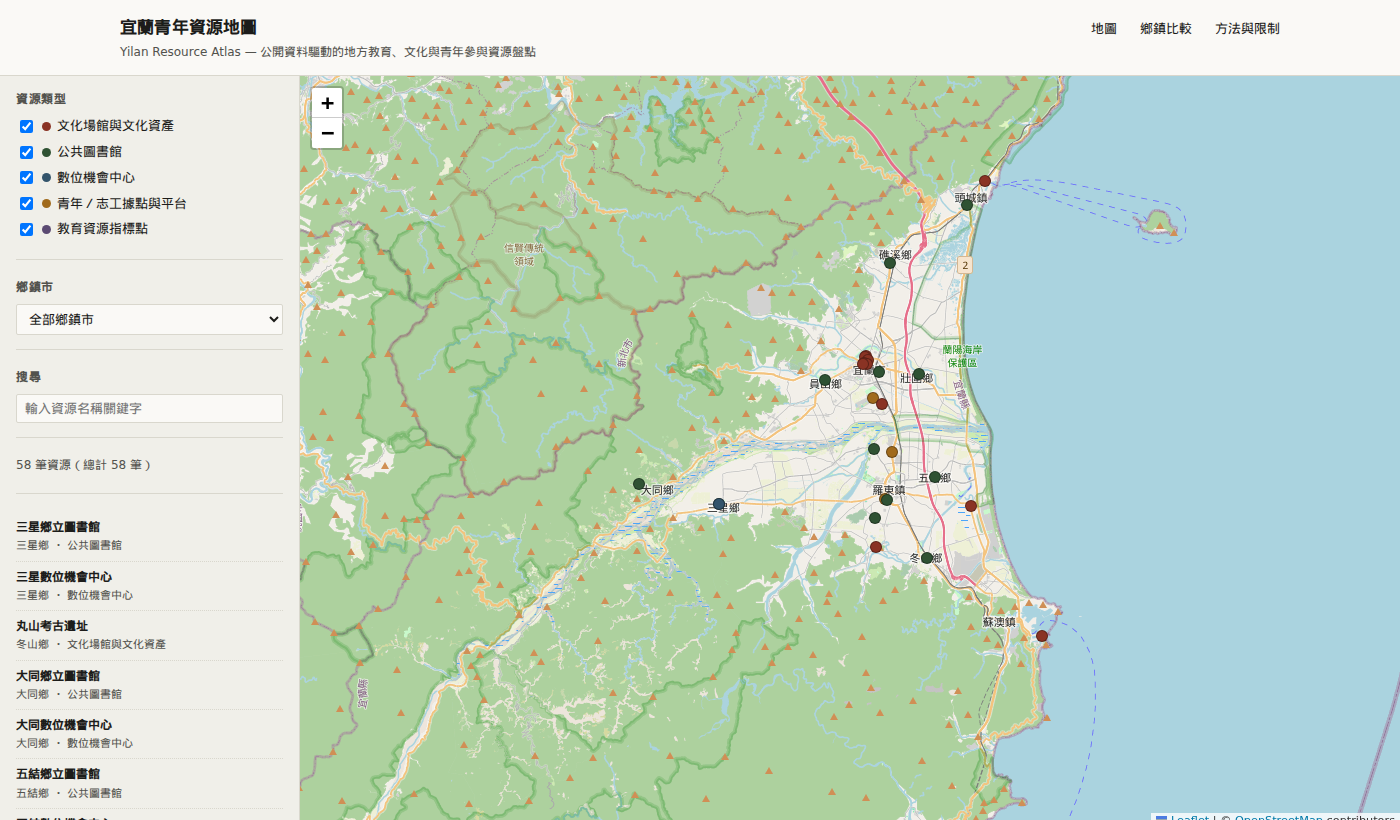
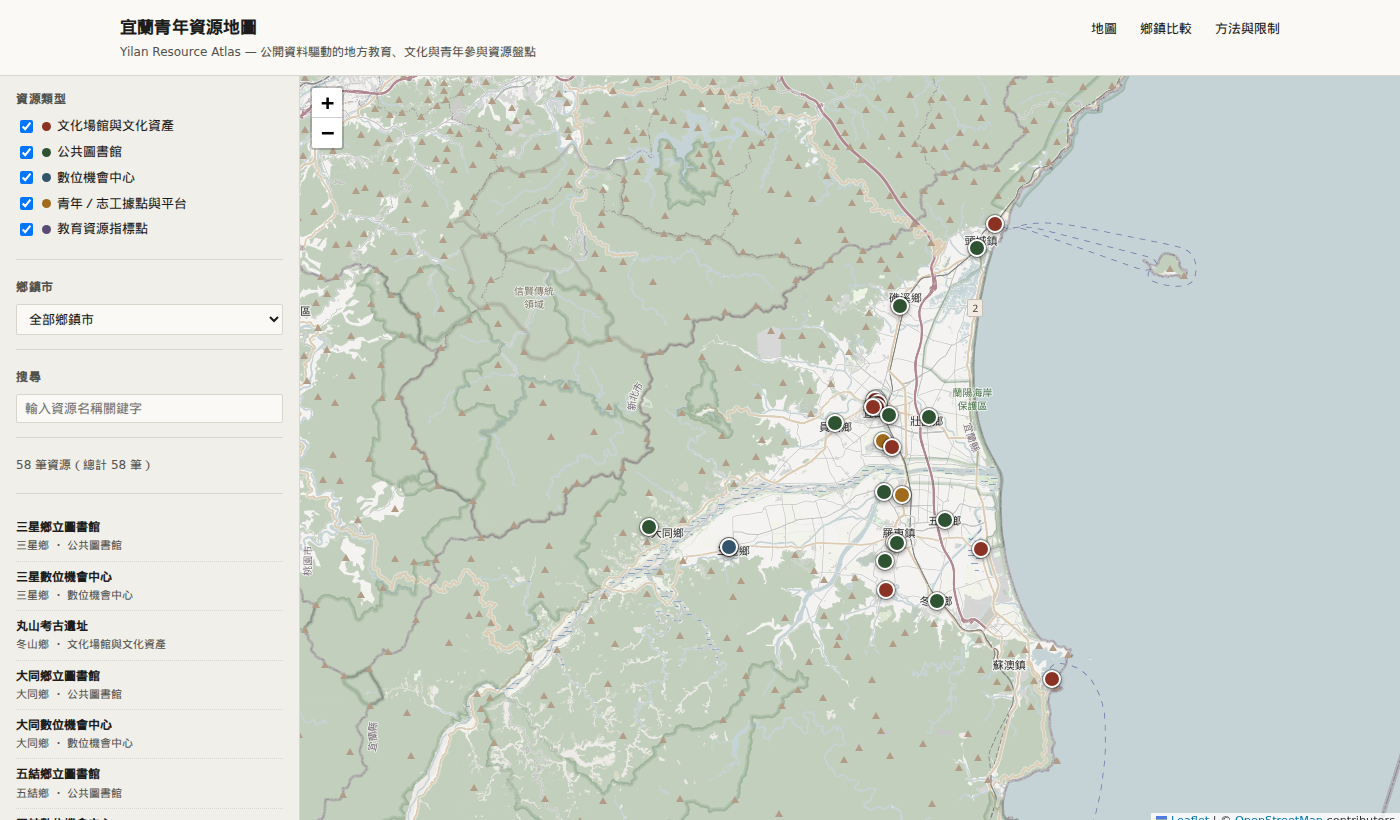
地圖據點改大並加外框，底圖淡化

diff --git a/js/app.js b/js/app.js
@@ -52,11 +52,37 @@ const markerLayer = L.layerGroup().addTo(map);
 function makeIcon(category) {
   const color = CATEGORY_COLOR[category] || "#555";
   return L.divIcon({
-    className: "",
-    html: `<span style="display:inline-block;width:12px;height:12px;border-radius:50%;background:${color};border:1px solid rgba(0,0,0,0.35);"></span>`,
-    iconSize: [12, 12],
-    iconAnchor: [6, 6]
+    className: "mk-wrap",
+    html: `<span class="mk" style="background:${color}"></span>`,
+    iconSize: [18, 18],
+    iconAnchor: [9, 9],
+    popupAnchor: [0, -10]
   });
+}
+
+let selectedMarker = null;
+
+function highlightMarker(marker) {
+  if (selectedMarker && selectedMarker !== marker) {
+    selectedMarker.getElement()?.classList.remove("mk-selected");
+    selectedMarker.setZIndexOffset(0);
+  }
+  marker.getElement()?.classList.add("mk-selected");
+  marker.setZIndexOffset(1000);
+  selectedMarker = marker;
+}
+
+function focusResource(r) {
+  const marker = state.markers.find(mk => mk.resourceId === r.id);
+  if (!marker) return;
+  const show = () => { marker.openPopup(); highlightMarker(marker); };
+  const target = L.latLng(r.lat, r.lng);
+  if (map.getZoom() === 15 && map.getCenter().distanceTo(target) < 5) {
+    show();
+  } else {
+    map.once("moveend", show);
+    map.flyTo(target, 15, { duration: 0.6 });
+  }
 }
 
 function passesFilter(r) {
@@ -68,11 +94,16 @@ function passesFilter(r) {
 
 function renderMarkers() {
   markerLayer.clearLayers();
+  state.markers = [];
+  selectedMarker = null;
   const visible = state.resources.filter(passesFilter);
 
   visible.forEach(r => {
     if (r.lat == null || r.lng == null) return;
     const marker = L.marker([r.lat, r.lng], { icon: makeIcon(r.category) });
+    marker.resourceId = r.id;
+    marker.on("click", () => highlightMarker(marker));
+    state.markers.push(marker);
     const geocodeNote = r.geocode_status === "needs_geocoding"
       ? '<p class="popup-source">座標為概略地理編碼，非精確位置。</p>'
       : "";
@@ -111,10 +142,7 @@ function renderList(visible) {
         : "";
       li.innerHTML = `<span class="res-name">${escapeHtml(r.name)} ${staleMark}</span><span class="res-meta">${escapeHtml(r.township)} ・ ${escapeHtml(CATEGORY_LABEL[r.category] || r.category)}</span>`;
       li.addEventListener("click", () => {
-        if (r.lat != null && r.lng != null) {
-          map.setView([r.lat, r.lng], 14);
-          const m = state.markers.find(mk => mk.resourceId === r.id);
-        }
+        if (r.lat != null && r.lng != null) focusResource(r);
       });
       list.appendChild(li);
     });

diff --git a/css/style.css b/css/style.css
@@ -175,6 +175,39 @@ a { color: var(--accent); }
   width: 100%;
 }
 
+/* 底圖降低飽和度，讓資料點在地圖上更明顯 */
+#map .leaflet-tile-pane { filter: saturate(0.35) brightness(1.06) contrast(0.92); }
+
+.mk-wrap { background: none; border: none; }
+.mk {
+  display: block;
+  width: 18px;
+  height: 18px;
+  border-radius: 50%;
+  border: 2.5px solid #fff;
+  box-shadow: 0 0 0 1px rgba(0, 0, 0, 0.35), 0 2px 5px rgba(0, 0, 0, 0.4);
+  transition: transform 0.15s ease;
+}
+.mk-wrap:hover .mk { transform: scale(1.25); }
+.mk-selected .mk { transform: scale(1.45); }
+.mk-selected::after {
+  content: "";
+  position: absolute;
+  left: 50%;
+  top: 50%;
+  width: 18px;
+  height: 18px;
+  margin: -9px 0 0 -9px;
+  border-radius: 50%;
+  border: 3px solid #111827;
+  pointer-events: none;
+  animation: mk-pulse 1.4s ease-out infinite;
+}
+@keyframes mk-pulse {
+  from { transform: scale(1); opacity: 0.9; }
+  to { transform: scale(3.2); opacity: 0; }
+}
+
 .leaflet-popup-content { font-size: 0.85rem; line-height: 1.5; }
 .leaflet-popup-content .popup-source { font-size: 0.75rem; color: var(--ink-soft); }
 
